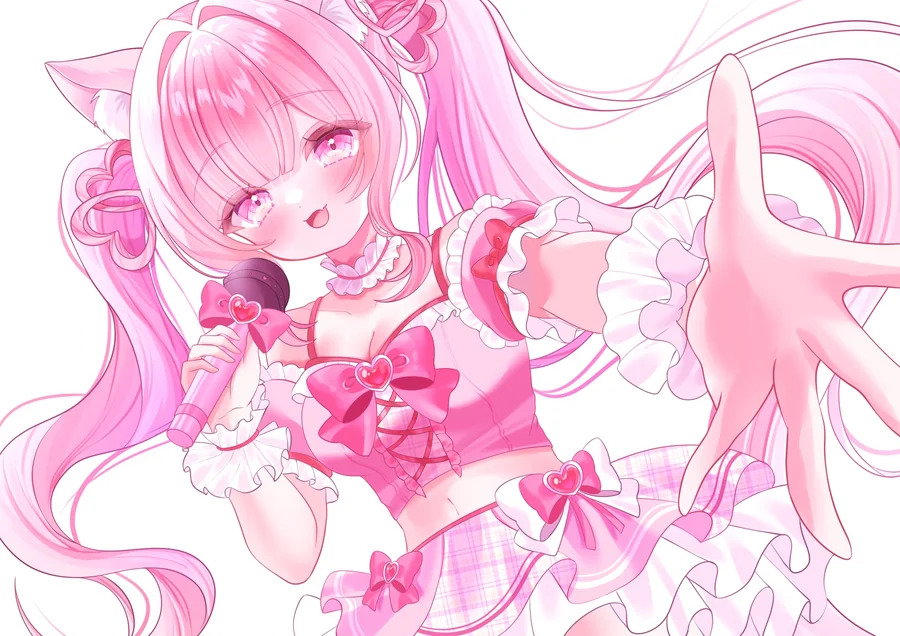
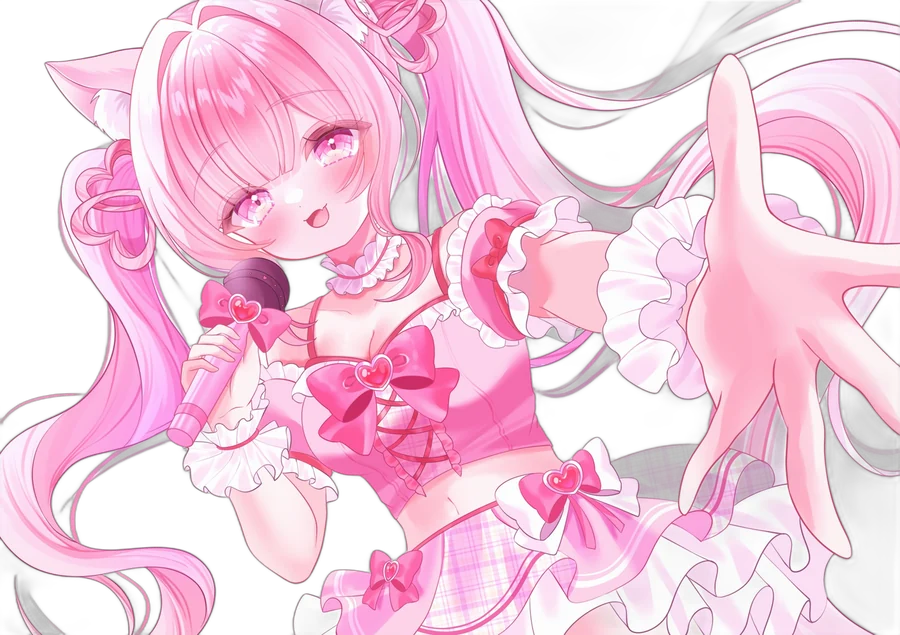
Cut out the Shii-kichi illustration and float it over a flowing rainbow
Claude-Session: https://claude.ai/code/session_01ALT4KJFKwyaPrP2u5RiS8B

diff --git a/index.html b/index.html
@@ -6,7 +6,7 @@
 <title>しぃ｜公式サイト</title>
 <meta name="description" content="ほにゃららLIVERS所属・Mirrativ配信者しぃの公式サイト。">
 <meta name="theme-color" content="#F3DDE3">
-<meta name="build" content="20261010170000">
+<meta name="build" content="20261010172500">
 <meta property="og:type" content="website">
 <meta property="og:site_name" content="しぃの部屋">
 <meta property="og:title" content="しぃの部屋｜しぃ公式サイト">
@@ -1204,7 +1204,15 @@ try{ if(!sessionStorage.getItem('shii_op') && !matchMedia('(prefers-reduced-moti
   /* しぃ吉：まんなかに大きく「しぃ吉」がドンッ。カードは上に小さく、帯と光線は控えめに */
   .cutin--rainbow .cutin__band { height: 260px; margin-top: -130px; opacity: .55; }
   .cutin--rainbow .cutin__rays { filter: saturate(.8); }
-  .cutin--rainbow .cutin__card { left: 50%; right: auto; top: 11%; width: min(78vw, 400px); animation-name: ci-card2; }
+  .cutin--rainbow .cutin__card { left: 50%; right: auto; top: 11%; width: min(82vw, 420px); animation-name: ci-card2; }
+  /* しぃ吉のイラスト：背景を抜いたしぃの後ろで、虹がゆっくり流れる */
+  .cutin--rainbow .cutin__card::before { content: ""; position: absolute; inset: 0; border-radius: 16px; border: 5px solid #fff;
+    background: linear-gradient(115deg, #FF9AB8, #FFD27A, #9EE6B8, #8CCBF5, #C9A8FF, #FF9AB8, #FFD27A); background-size: 300% 300%; animation: ci-rbbg 3s linear infinite;
+    box-shadow: 0 0 0 3px #C9A8FF, 0 12px 30px rgba(60,10,30,.45), 0 0 40px rgba(255,255,255,.8); }
+  .cutin--rainbow .cutin__card::after { content: ""; position: absolute; inset: 5px; border-radius: 12px; pointer-events: none;
+    background: repeating-linear-gradient(115deg, rgba(255,255,255,0) 0 22px, rgba(255,255,255,.35) 22px 26px); background-size: 200% 200%; animation: ci-rbbg 2s linear infinite; }
+  @keyframes ci-rbbg { to { background-position: 150% 150%; } }
+  .cutin--rainbow .cutin__card img { position: relative; z-index: 1; border: 0; box-shadow: none; border-radius: 0; background: none; filter: drop-shadow(0 0 2px #fff) drop-shadow(0 0 2px #fff) drop-shadow(0 4px 10px rgba(80,20,60,.35)); }
   .cutin--rainbow .cutin__txt { top: 66%; }
   @keyframes ci-card2 { 0%, 10% { transform: translate(-50%, -40px) rotate(-6deg) scale(.6); opacity: 0; } 24% { transform: translate(-50%, 0) rotate(-4deg) scale(1.05); opacity: 1; } 32%, 82% { transform: translate(-50%, 0) rotate(-4deg) scale(1); opacity: 1; } 96%, 100% { transform: translate(-50%, 0) rotate(-4deg) scale(1); opacity: 0; } }
   .cutin--rainbow .cutin__txt { left: 0; right: 0; top: 58%; text-align: center; transform: translateY(-50%); animation-name: ci-txt2; font-size: clamp(30px, 8vw, 46px);

diff --git a/sw.js b/sw.js
@@ -1,5 +1,5 @@
 // しぃの部屋：オフラインでも開けるようにするキャッシュ
-const CACHE = 'shii-20261010170000';
+const CACHE = 'shii-20261010172500';
 const FILES = ['./', './index.html', './manifest.webmanifest', './icon-192.png', './icon-512.png', './apple-touch-icon.png'];
 
 self.addEventListener('install', e => {
